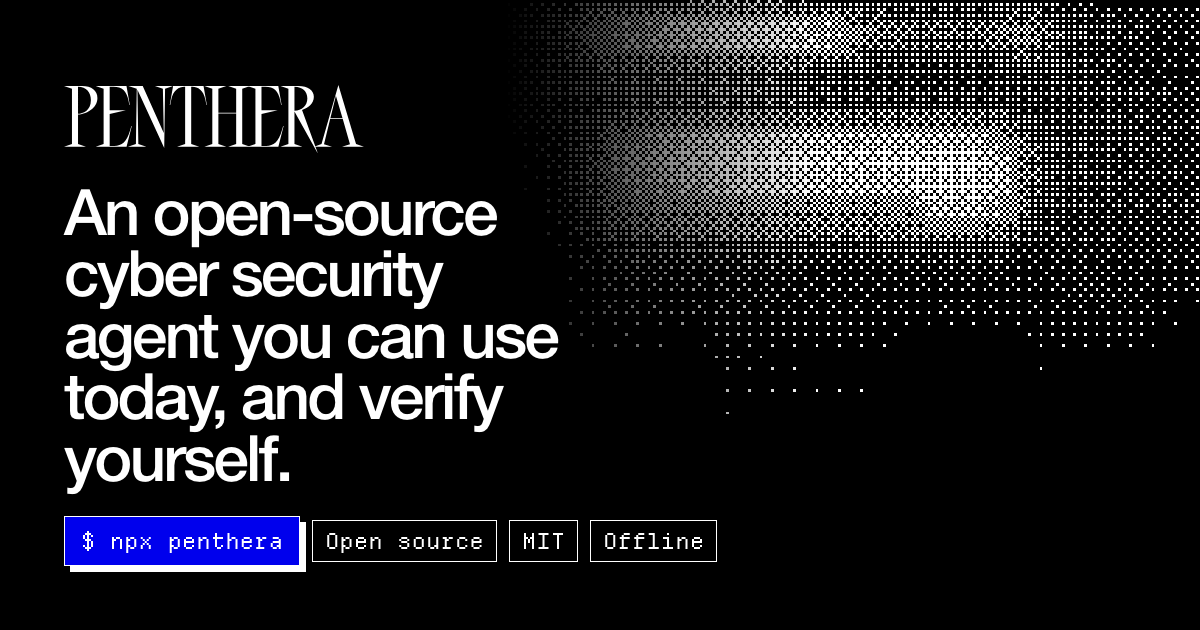
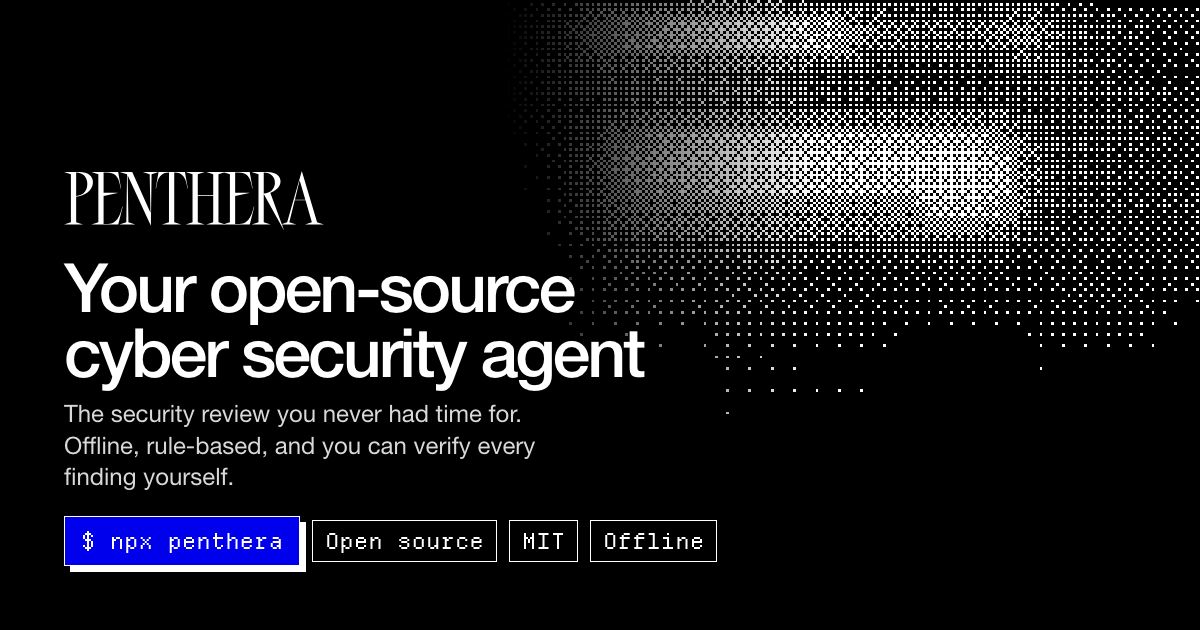
feat(site): the new title, a prompt CTA in the hero, the mark in the footer, vercel.json at the root
Title and subline, as approved on 2026-10-21: "Penthera: your open-source
cyber security agent" / "The security review you never had time for.
Offline, rule-based, and you can verify every finding yourself." On the
page, in the share tags, in both social images (re-rendered; the share
card's logotype no longer shrinks) and as the README headline.

Hero: beside npx penthera, a "Copy prompt for your AI coding agent"
button copies a setup prompt for Claude Code, Cursor or Codex (the same
prompt and commands as the Claude Code card). The bottom veil now stays
off the whole hero text, not only the headline.

Footer: the Penthera logotype on the right, linking back to the top.

Deploy: vercel.json moves to the repository root, so a Vercel project
needs no root-directory setting: it installs at the root, builds with
node site/build.mjs and serves site/dist. An ignoreCommand skips builds
for pushes that touch nothing the site uses. audit.js passes at 375 px
and desktop in both themes.

AI-Assisted: Claude Code with Claude Opus 5.5; applied the approved title everywhere, added the prompt CTA and footer mark, moved the deploy config, and checked them

Changed region(s): [[0.0308, 0.2714, 0.555, 0.7841], [0.0617, 0.1206, 0.3083, 0.2413]]

diff --git a/site/index.html b/site/index.html
@@ -4,24 +4,24 @@
   <meta charset="utf-8">
   <meta name="viewport" content="width=device-width, initial-scale=1">
   <title>Penthera</title>
-  <meta name="description" content="Offline cyber security agent for your apps and AI coding tools. Open R&amp;D: measured in public, improved every release.">
+  <meta name="description" content="The security review you never had time for. Offline, rule-based, and you can verify every finding yourself.">
   <meta name="color-scheme" content="dark light">
   <meta name="theme-color" content="#000000">
   <link rel="canonical" href="{{SITE_URL}}/">
   <meta property="og:site_name" content="Penthera">
-  <meta property="og:title" content="Penthera: an open-source cyber security agent">
-  <meta property="og:description" content="An open-source cyber security agent you can use today, and verify yourself. Offline, MIT, measured in public.">
+  <meta property="og:title" content="Penthera: your open-source cyber security agent">
+  <meta property="og:description" content="The security review you never had time for. Offline, rule-based, and you can verify every finding yourself.">
   <meta property="og:type" content="website">
   <meta property="og:url" content="{{SITE_URL}}/">
   <meta property="og:image" content="{{SITE_URL}}/media/social/og.png">
   <meta property="og:image:width" content="1200">
   <meta property="og:image:height" content="630">
-  <meta property="og:image:alt" content="Penthera: an open-source cyber security agent you can use today, and verify yourself. npx penthera.">
+  <meta property="og:image:alt" content="Penthera: your open-source cyber security agent. The security review you never had time for. npx penthera.">
   <meta name="twitter:card" content="summary_large_image">
-  <meta name="twitter:title" content="Penthera: an open-source cyber security agent">
-  <meta name="twitter:description" content="Use it today, verify it yourself. Offline, MIT, measured in public.">
+  <meta name="twitter:title" content="Penthera: your open-source cyber security agent">
+  <meta name="twitter:description" content="The security review you never had time for. Offline, rule-based, and you can verify every finding yourself.">
   <meta name="twitter:image" content="{{SITE_URL}}/media/social/og.png">
-  <meta name="twitter:image:alt" content="Penthera: an open-source cyber security agent you can use today, and verify yourself.">
+  <meta name="twitter:image:alt" content="Penthera: your open-source cyber security agent. The security review you never had time for.">
   <link rel="icon" href="/favicon.svg" type="image/svg+xml">
   <link rel="preload" href="/fonts/DepartureMono-Regular.woff2" as="font" type="font/woff2" crossorigin>
   <link rel="stylesheet" href="/styles.css">
@@ -57,15 +57,18 @@
       <img class="field" src="/media/field.png" alt="" width="360" height="225" aria-hidden="true">
       <div class="hero-text">
         <ul class="pills" aria-label="Open source, MIT license, works offline"><li>Open source</li><li>MIT</li><li>Offline</li></ul>
-        <h1 id="hero-title">Penthera: an open-source cyber security agent you can use today, and verify yourself.</h1>
-        <p class="lede">Offline cyber security agent for your apps and AI coding tools. Open R&amp;D: measured in public, improved every release.</p>
+        <h1 id="hero-title">Penthera: your <span class="nowrap">open-source</span> cyber security agent</h1>
+        <p class="lede">The security review you never had time for. Offline, rule-based, and you can verify every finding yourself.</p>
+        <div class="hero-actions">
         <button class="cmd" type="button" data-copy="npx penthera">
           <span class="cmd-prompt" aria-hidden="true">$</span>
           <code>npx penthera</code>
           <span class="cmd-act" aria-hidden="true" data-js><span class="cmd-copy">Copy</span><span class="cmd-done">Copied</span></span>
           <span class="sr" aria-live="polite" data-copy-status>, copy to clipboard</span>
         </button>
-        <p class="note">Run it in your project folder. No install, no account, Node 22 or later.</p>
+        <button class="btn btn-prompt" type="button" data-js data-copy="Set up Penthera in this repo. Run `npx penthera init --dry-run` and show me what it would do. Then run `npx penthera agents` and `npx penthera deps`, and list the findings by severity, with the file for each. Do not change, commit or push anything without asking me."><svg class="tool-icon" viewBox="0 0 9 9" aria-hidden="true"><path d="M0 0h1v1h-1zM4 0h1v1h-1zM8 0h1v1h-1zM1 1h1v1h-1zM4 1h1v1h-1zM7 1h1v1h-1zM2 2h1v1h-1zM4 2h1v1h-1zM6 2h1v1h-1zM3 3h3v1h-3zM0 4h9v1h-9zM3 5h3v1h-3zM2 6h1v1h-1zM4 6h1v1h-1zM6 6h1v1h-1zM1 7h1v1h-1zM4 7h1v1h-1zM7 7h1v1h-1zM0 8h1v1h-1zM4 8h1v1h-1zM8 8h1v1h-1z"/></svg><span data-copy-label>Copy prompt for your AI coding agent</span></button>
+        </div>
+        <p class="note">Run it in your project folder, or paste the prompt into Claude Code, Cursor or Codex. No install, no account, Node 22 or later.</p>
         <p class="note"><a href="#check">Or check one file in this tab first</a></p>
       </div>
       <figure class="loop">
@@ -273,6 +276,7 @@
   </main>
 
   <footer class="foot">
+    <div class="foot-main">
     <div class="foot-ctas">
       <button class="theme glass" type="button" role="switch" aria-checked="true" aria-label="Dark theme" data-theme-toggle hidden>
         <span class="theme-track" aria-hidden="true"><span class="theme-knob"></span></span>
@@ -288,6 +292,8 @@
     </div>
     <p>MIT license · Scan only what you own or are authorized to test.</p>
     <p>No cookies, no analytics, no third-party requests · Built from Penthera {{VERSION}} · <a href="https://github.com/danoszz/penthera/tree/main/site">Source of this page</a></p>
+    </div>
+    <a class="foot-mark" href="#main"><span class="logotype" aria-hidden="true"></span><span class="sr">Penthera, back to the top</span></a>
   </footer>
   <div class="veil" aria-hidden="true"><i></i><i></i><i></i><i></i><i></i><i></i></div>
 </body>

diff --git a/site/styles.css b/site/styles.css
@@ -436,11 +436,14 @@ h1 {
   font-size: clamp(42px, 8.2vw, 124px);
   line-height: 0.94;
   letter-spacing: -0.045em;
-  max-width: 13.5ch;
+  max-width: 16ch;
   text-wrap: balance;
 }
 .lede { margin-top: 28px; max-width: 34ch; font-size: clamp(19px, 2.2vw, 26px); line-height: 1.35; color: var(--text-1); letter-spacing: -0.01em; }
-.hero .cmd { margin-top: 36px; }
+/* The two ways in, side by side: the command, or a prompt for your agent. */
+.hero-actions { display: flex; flex-wrap: wrap; align-items: stretch; gap: 12px; margin-top: 36px; }
+.btn-prompt { min-height: var(--target); max-width: 100%; gap: 10px; padding: 8px 16px; white-space: normal; text-align: left; }
+.btn-prompt .tool-icon { width: 14px; height: 14px; margin: 0; }
 .loop { position: relative; z-index: 1; max-width: var(--measure); margin: clamp(64px, 10vw, 128px) auto 0; }
 .loop video, .walk video { display: block; width: 100%; height: auto; border: 1px solid var(--frame); background: var(--ground); }
 figcaption { margin-top: 10px; color: var(--text-3); }
@@ -624,12 +627,21 @@ textarea:focus-visible, select:focus-visible { outline-offset: 0; }
   padding: 16px var(--gutter) 20px;
   border-top: 1px solid var(--frame);
   color: var(--text-3);
-  display: flex; flex-wrap: wrap; justify-content: space-between; gap: 6px 32px;
+  display: flex; flex-wrap: wrap; justify-content: space-between; align-items: flex-end; gap: 16px 32px;
   font-size: 12px;
 }
+.foot-main { display: grid; gap: 6px; flex: 1 1 420px; }
+.nowrap { white-space: nowrap; }
+/* The mark again, on the right, closing the page; it links back to the top. */
+.foot-mark {
+  --logo-w: clamp(120px, 18vw, 220px); --logo-h: calc(var(--logo-w) * 63 / 279);
+  display: inline-flex; align-items: center; min-height: var(--target); margin-left: auto;
+  color: var(--text-1); text-decoration: none;
+}
+.foot-mark:hover { background: none; color: var(--accent-ink); }
 .foot p a { display: inline-block; padding: 12px 0; margin: -12px 0; }
 /* The bar's three controls again, so the end of the page has the same ways out. */
-.foot-ctas { flex-basis: 100%; display: flex; flex-wrap: wrap; gap: 8px; margin-bottom: 14px; }
+.foot-ctas { display: flex; flex-wrap: wrap; gap: 8px; margin-bottom: 14px; }
 /* The maker, at the end of Open R&D. */
 .by {
   justify-self: start;

diff --git a/site/check/ui.js b/site/check/ui.js
@@ -22,9 +22,11 @@ function copyButtons() {
   for (const btn of document.querySelectorAll("[data-copy], [data-copy-from]")) {
     // A .cmd carries its own text and states; a prompt's button copies the <pre> beside it.
     const root = btn.closest("[data-copy-root]");
-    const source = btn.dataset.copy != null ? btn.querySelector("code") : $("[data-copy-text]", root);
+    const source = btn.dataset.copy != null ? btn.querySelector("code") || btn : $("[data-copy-text]", root);
     const status = $("[data-copy-status]", btn);
-    const label = btn.textContent;
+    // A button with an icon swaps only its label's text.
+    const labelEl = $("[data-copy-label]", btn) || btn;
+    const label = labelEl.textContent;
     let timer;
     btn.addEventListener("click", async () => {
       try {
@@ -36,12 +38,12 @@ function copyButtons() {
       }
       btn.dataset.state = "copied";
       if (status) status.textContent = `, ${COPY.copied.toLowerCase()}`;
-      else btn.textContent = COPY.copied;
+      else labelEl.textContent = COPY.copied;
       clearTimeout(timer);
       timer = setTimeout(() => {
         delete btn.dataset.state;
         if (status) status.textContent = ", copy to clipboard";
-        else btn.textContent = label;
+        else labelEl.textContent = label;
       }, 1600);
     });
   }
@@ -250,11 +252,13 @@ function barPalette() {
   observe();
 }
 
-// ── The bottom veil stays off the hero headline and the footer ──────────────
+// ── The bottom veil stays off the hero text and the footer ──────────────
 
 function veilClear() {
   const veil = $(".veil");
-  const targets = [$(".hero h1"), $(".foot")].filter(Boolean);
+  // The whole hero text block (headline, subline, install command), not just
+  // the headline, and the footer.
+  const targets = [$(".hero-text"), $(".foot")].filter(Boolean);
   if (!veil || !targets.length) return;
   const inZone = new Set();
   let io;

diff --git a/site/README.md b/site/README.md
@@ -22,7 +22,7 @@ node site/serve.mjs     # http://127.0.0.1:4173/ with the production headers
 | `check/shims/` | The Node built-ins `lib/` uses, for the browser: an in-memory `fs`, POSIX `path`, a synchronous SHA-256, and `gunzipSync` fed by DecompressionStream. |
 | `build.mjs` | Bundles `check/` with `lib/` (rolldown), embeds the rule packs and the popular-package list, verifies each pack's signature, and copies the media. |
 | `serve.mjs` | A local preview that sends the headers from `vercel.json`. |
-| `vercel.json` | Build settings and security headers: CSP with `connect-src 'none'`, HSTS, `frame-ancestors 'none'`, `Referrer-Policy: no-referrer`. |
+| `../vercel.json` | At the repo root, so Vercel needs no settings: install, build (`node site/build.mjs`), output (`site/dist`) and the security headers: CSP with `connect-src 'none'`, HSTS, `frame-ancestors 'none'`, `Referrer-Policy: no-referrer`. |
 | `stars.json` | The last GitHub star count the build read, used when the API is rate-limited or offline. Set `GITHUB_TOKEN` in Vercel to avoid the anonymous limit. |
 | `tools/social.mjs` | Renders `media/social/og.png` (1200 × 630, the share card for LinkedIn, X and Facebook) and `square.png` (1080 × 1080, Instagram) with a local Chrome. Re-run it when the headline changes. |
 | `media/` | `field.png` (the hero's 1-bit cloud), `hero.mp4` and its poster, regenerated with `tools/media.sh`; `dvdzwaag.svg`, the maker's wordmark traced with potrace from Daan's own artwork, used as a mask so it takes the ink. |
@@ -49,6 +49,8 @@ the SHA-256 in its `pack.json`.
 
 ## Deploying
 
-Vercel project settings: root directory `site`, everything else comes from
-`vercel.json`. The install step runs `npm ci` at the repo root, because the
-build reads `lib/` and uses `rolldown` from the root `package.json`.
+Import the repository in Vercel and deploy; leave the root directory at the
+repository root and the framework preset on "Other". Everything else comes
+from `vercel.json` at the root: it runs `npm ci` there (the build reads
+`lib/` and uses `rolldown` from the root `package.json`), builds with
+`node site/build.mjs` and serves `site/dist`.

diff --git a/site/BRIEF.md b/site/BRIEF.md
@@ -14,8 +14,12 @@ check in the page first.
 
 ## Positioning (approved, used verbatim)
 
-- One-liner: "Penthera: an open-source cyber security agent you can use today,
-  and verify yourself."
+- Title (2026-10-21, the hero and README headline): "Penthera: your
+  open-source cyber security agent"
+- Subline: "The security review you never had time for. Offline, rule-based,
+  and you can verify every finding yourself."
+- One-liner, still approved for other copy: "Penthera: an open-source cyber
+  security agent you can use today, and verify yourself."
 - Short line: "Offline cyber security agent for your apps and AI coding tools.
   Open R&D: measured in public, improved every release."
 
@@ -37,7 +41,7 @@ typesafe.ai in spirit, in Penthera's own 1-bit look (`penthera ui` after #63):
 
 ## Structure
 
-1. Hero: one-liner, short line, `npx penthera`, the 12-second loop.
+1. Hero: title, subline, `npx penthera`, the 12-second loop.
 2. The check: drop or paste five kinds of file, Penthera's own rules run in
    the tab. What it cannot do, next to it.
 3. Get it: `npx penthera`, GitHub, npm, prompts for Claude Code, Cursor and

diff --git a/README.md b/README.md
@@ -4,7 +4,9 @@
 
 <br/><br/>
 
-**Penthera: an open-source cyber security agent you can use today, and verify yourself.**
+**Penthera: your open-source cyber security agent**
+
+The security review you never had time for. Offline, rule-based, and you can verify every finding yourself.
 
 <br/>
 
